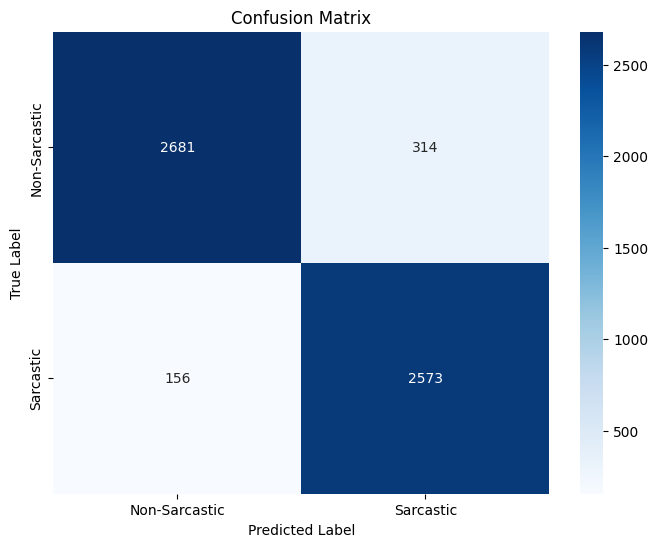
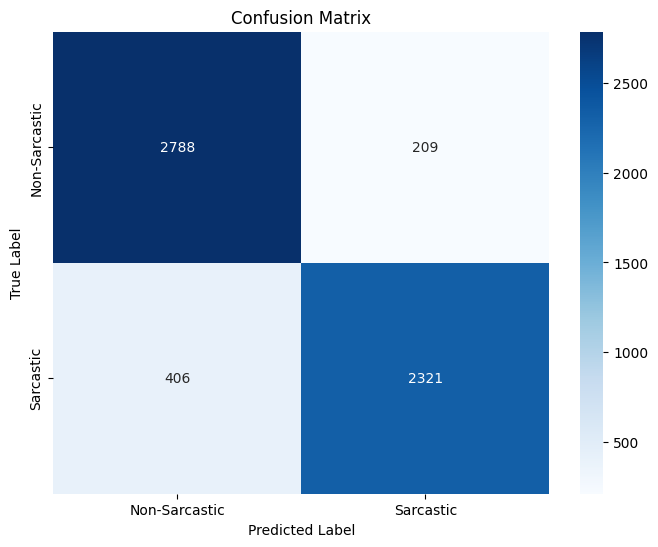
Updated overfitting

diff --git a/Bert/BERT-headline.py b/Bert/BERT-headline.py
@@ -11,21 +11,19 @@ import matplotlib.pyplot as plt
 import seaborn as sns
 from transformers import DistilBertTokenizer, TFDistilBertForSequenceClassification, DistilBertConfig
 
-# Suppress TensorFlow info logs
+# Suppress TensorFlow logs
 os.environ['TF_CPP_MIN_LOG_LEVEL'] = '3'
 tf.get_logger().setLevel('ERROR')
 
 # Create output directory
 os.makedirs('sarcasm_outputs', exist_ok=True)
 
-# Text cleaning function
 def clean_text(text):
     text = str(text).lower()
-    text = re.sub(r'[^a-zA-Z\s]', '', text)  # Remove special characters
-    text = re.sub(r'\s+', ' ', text).strip()  # Normalize whitespace
+    text = re.sub(r'[^a-zA-Z\s]', '', text)
+    text = re.sub(r'\s+', ' ', text).strip()
     return text
 
-# Load and preprocess data
 def load_data(file_path):
     with open(file_path, 'r') as f:
         datastore = [json.loads(line) for line in f]
@@ -34,12 +32,10 @@ def load_data(file_path):
     df['clean_headline'] = df['headline'].apply(clean_text)
     return df
 
-# Parameters
 MAX_LENGTH = 40
-BATCH_SIZE = 16  # Reduced to address memory issues
+BATCH_SIZE = 16
 EPOCHS = 4
 
-# Main execution
 if __name__ == "__main__":
     # Load and split data
     df = load_data('../Dataset/Sarcasm_Headlines_Dataset_v2.json')
@@ -47,80 +43,104 @@ if __name__ == "__main__":
         df['clean_headline'],
         df['is_sarcastic'],
         test_size=0.2,
-        random_state=42
+        random_state=42,
+        stratify=df['is_sarcastic']  # Added stratification
     )
 
-    # Compute class weights based on training data
+    # Class weights with smoothing
     classes = np.unique(y_train)
     class_weights = compute_class_weight('balanced', classes=classes, y=y_train)
+    class_weights = np.clip(class_weights, 0.5, 2)  # Limit extreme weights
     class_weights_dict = dict(zip(classes, class_weights))
     sample_weights = np.array([class_weights_dict[label] for label in y_train])
 
-    # Tokenize data using DistilBERT tokenizer
+    # Tokenization with dynamic padding
     tokenizer = DistilBertTokenizer.from_pretrained('distilbert-base-uncased')
     train_encodings = tokenizer(
         X_train.tolist(),
         truncation=True,
-        padding='max_length',
+        padding=True,  # Changed to dynamic padding
         max_length=MAX_LENGTH,
         return_tensors='tf'
     )
     test_encodings = tokenizer(
         X_test.tolist(),
         truncation=True,
-        padding='max_length',
+        padding=True,
         max_length=MAX_LENGTH,
         return_tensors='tf'
     )
 
-    # Prepare TensorFlow datasets
+    # Optimized dataset preparation
     train_dataset = tf.data.Dataset.from_tensor_slices((
-        {
-            'input_ids': train_encodings['input_ids'],
-            'attention_mask': train_encodings['attention_mask']
-        },
+        {'input_ids': train_encodings['input_ids'], 
+         'attention_mask': train_encodings['attention_mask']},
         y_train,
         sample_weights
-    )).shuffle(1000).batch(BATCH_SIZE)
+    )).shuffle(1000).batch(BATCH_SIZE).prefetch(tf.data.AUTOTUNE)
 
     test_dataset = tf.data.Dataset.from_tensor_slices((
-        {
-            'input_ids': test_encodings['input_ids'],
-            'attention_mask': test_encodings['attention_mask']
-        },
+        {'input_ids': test_encodings['input_ids'],
+         'attention_mask': test_encodings['attention_mask']},
         y_test
-    )).batch(BATCH_SIZE)
+    )).batch(BATCH_SIZE).prefetch(tf.data.AUTOTUNE)
 
-    # Build and compile DistilBERT model with AdamW optimizer
-    config = DistilBertConfig.from_pretrained('distilbert-base-uncased', num_labels=1,droput=0.2)
+    # Enhanced model configuration
+    config = DistilBertConfig.from_pretrained(
+        'distilbert-base-uncased',
+        num_labels=1,
+        dropout=0.4,  # Increased dropout
+        seq_classif_dropout=0.5,  # Additional dropout for classification
+        attention_dropout=0.2  # Added attention dropout
+    )
+    
     model = TFDistilBertForSequenceClassification.from_pretrained('distilbert-base-uncased', config=config)
-    optimizer = tf.keras.optimizers.AdamW(learning_rate=2e-5, weight_decay=0.02)
+    
+    # Enhanced regularization
+    l2_reg = tf.keras.regularizers.l2(0.02)  # Increased L2 regularization
+    model.classifier = tf.keras.Sequential([
+        tf.keras.layers.Dropout(0.4),  # Additional dropout layer
+        tf.keras.layers.Dense(
+            units=1,
+            activation=None,
+            kernel_initializer=model.classifier.kernel_initializer,
+            kernel_regularizer=l2_reg
+        )
+    ])
+
+    # Optimized learning schedule
+    optimizer = tf.keras.optimizers.AdamW(
+        learning_rate=1e-5,  # Reduced learning rate
+        weight_decay=0.03,  # Increased weight decay
+        clipnorm=1.0  # Gradient clipping
+    )
     loss = tf.keras.losses.BinaryCrossentropy(from_logits=True)
     model.compile(optimizer=optimizer, loss=loss, metrics=['accuracy'])
 
-    # Define callbacks
+    # Enhanced callbacks
     early_stop = tf.keras.callbacks.EarlyStopping(
-        monitor='val_accuracy',
-        patience=3,
-        min_delta=0.001,
+        monitor='val_loss',  # Changed to monitor loss
+        patience=2,
+        min_delta=0.005,
         restore_best_weights=True
     )
     lr_scheduler = tf.keras.callbacks.ReduceLROnPlateau(
         monitor='val_loss',
         factor=0.5,
-        patience=2,
+        patience=1,
         min_lr=1e-6
     )
 
-    # Train the model
+    # Training with validation frequency
     history = model.fit(
         train_dataset,
         epochs=EPOCHS,
         validation_data=test_dataset,
-        callbacks=[early_stop, lr_scheduler]
+        callbacks=[early_stop, lr_scheduler],
+        verbose=1
     )
 
-    # Function to save training curves
+    # Visualization and reporting (unchanged)
     def save_training_curves(history):
         plt.figure(figsize=(12, 4))
         plt.subplot(1, 2, 1)
@@ -142,18 +162,15 @@ if __name__ == "__main__":
 
     save_training_curves(history)
 
-    # Generate predictions
     logits = model.predict(test_dataset).logits
     probabilities = tf.sigmoid(logits).numpy().flatten()
     y_pred = (probabilities > 0.5).astype(int)
 
-    # Save classification report
     report = classification_report(y_test, y_pred)
     with open(os.path.join('sarcasm_outputs', 'classification_report.txt'), 'w') as f:
         f.write("Classification Report:\n")
         f.write(report)
 
-    # Save confusion matrix
     plt.figure(figsize=(8, 6))
     cm = confusion_matrix(y_test, y_pred)
     sns.heatmap(cm, annot=True, fmt='d', cmap='Blues',
